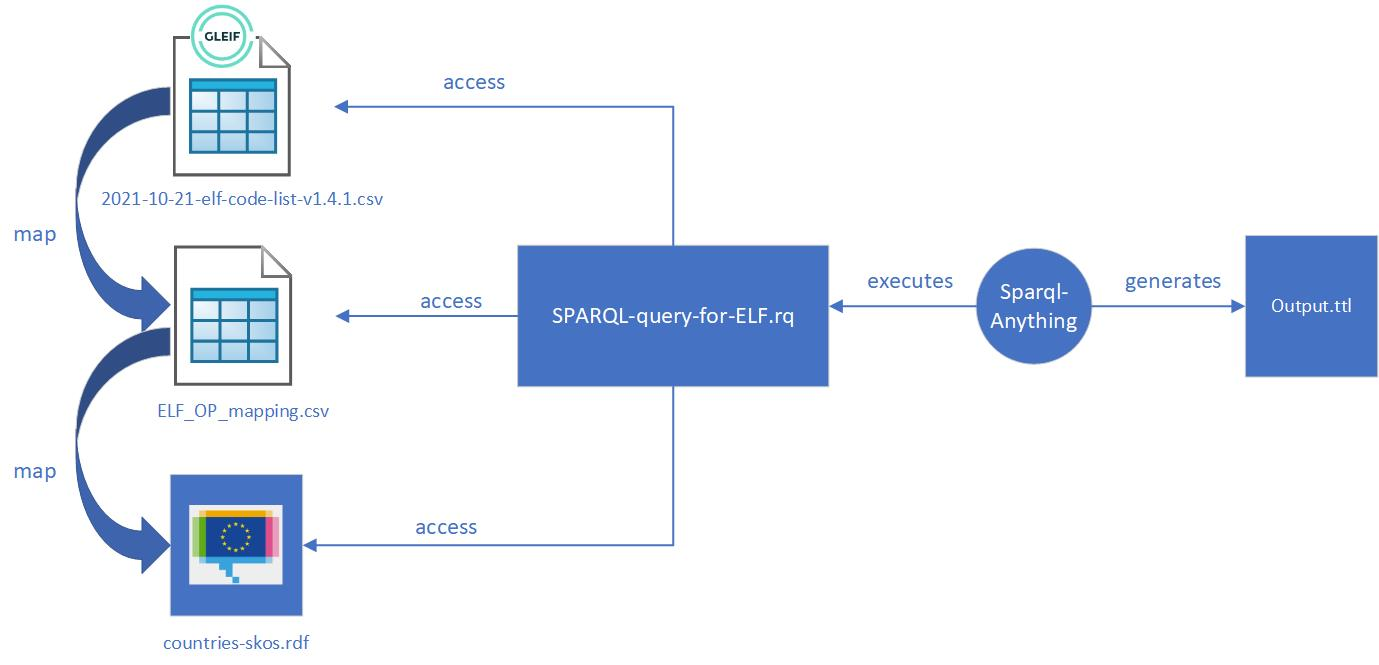
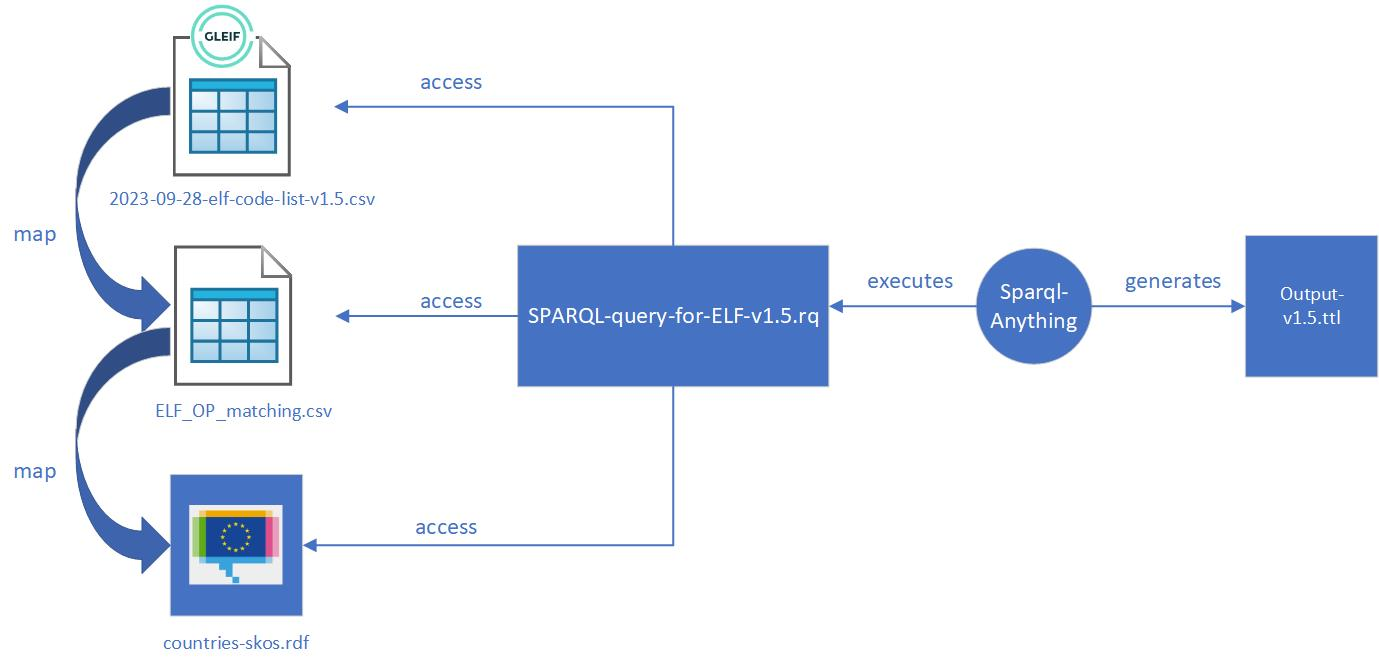
reviewed the documentation

diff --git a/Entity_Legal_Form/README.md b/Entity_Legal_Form/README.md
@@ -4,10 +4,11 @@
 This folder includes the material used to generate the Entity Legal Forms in RDF to be published by the Publications Office for the [legal form of a Legal Entity](https://semiceu.github.io/Core-Business-Vocabulary/releases/2.1.0/#LegalEntity%3AlegalFormType)  .
 
 The folder mainly includes:
-1. The file [2021-10-21-elf-code-list-v1.4.1.csv](2021-10-21-elf-code-list-v1.4.1.csv) downloaded from [GLEIF Entity Legal Forms](https://www.gleif.org/en/about-lei/code-lists/iso-20275-entity-legal-forms-code-list)
+1. The file [2023-09-28-elf-code-list-v1.5.csv](2023-09-28-elf-code-list-v1.5.csv) downloaded from [GLEIF Entity Legal Forms](https://www.gleif.org/en/about-lei/code-lists/iso-20275-entity-legal-forms-code-list)
 2. The file [countries-skos.rdf](countries-skos.rdf) downloaded from [Publications Office Country Authority Table](https://op.europa.eu/en/web/eu-vocabularies/dataset/-/resource?uri=http://publications.europa.eu/resource/dataset/country)
-3. The file [ELF_OP_mapping.csv](ELF_OP_mapping.csv) to map the countries in GLEIF to those in Publications Office
-4. The file [SPARQL-query-for-ELF.rq](SPARQL-query-for-ELF.rq) created to generate the Entity Legal Forms in RDF
+3. The file [ELF_OP_matching.csv](ELF_OP_mapping.csv) to map the countries in GLEIF to those in Publications Office
+4. The file [SPARQL-query-for-ELF-v1.5.rq](SPARQL-query-for-ELF-v1.5.rq) created to generate the Entity Legal Forms in RDF
+5. The file [output-v1.5.ttl](output-v1.5.ttl) generated as output containing the Entity Legal Forms in RDF
 
 
 ![](GLEIF.jpg)
@@ -31,30 +32,30 @@ Therefore the CSV is the preferred format for the transformation.
 The CSV file contains a list of legal forms:
 * that are not logical linked (no order/ranking)
 * that are not physically linked (no reference between each other)
-* that are grouped by the "ELF Code" column because of multiple translations, see for example the ELF Code for Belgium [1TX8](https://github.com/SEMICeu/Taxonomy/blob/master/Entity_Legal_Form/2021-10-21-elf-code-list-v1.4.1.csv#L99-L101) in Dutch, French and German
+* that are grouped by the "ELF Code" column because of multiple translations, see for example the ELF Code for Belgium [1TX8](https://github.com/SEMICeu/Taxonomy/blob/master/Entity_Legal_Form/2023-09-28-elf-code-list-v1.5.csv#L115-L117) in Dutch, French and German
 
 In addition, the legal forms:
 * depend on a country (Column "Country of formation") which name might be different from the countries in the Publication Office
 * have a status (Column "ELF Status ACTV/INAC") active or inactive
 * might have, for each single language:
-  *  a transliteration in Latin, see for example the ELF Code for Greece [R3HO](https://github.com/SEMICeu/Taxonomy/blob/master/Entity_Legal_Form/2021-10-21-elf-code-list-v1.4.1.csv#L1388) 
-  *  multiple abbrevations, see for example the ELF Code for Belgium [Y1Q4](https://github.com/SEMICeu/Taxonomy/blob/master/Entity_Legal_Form/2021-10-21-elf-code-list-v1.4.1.csv#L234), where they are concatenated via the ";" delimiter such as "PRIV ST.;PS"
+  *  a transliteration in Latin, see for example the ELF Code for Greece [R3HO](https://github.com/SEMICeu/Taxonomy/blob/master/Entity_Legal_Form/2023-09-28-elf-code-list-v1.5.csv#L1413) 
+  *  multiple abbrevations, see for example the ELF Code for Belgium [Y1Q4](https://github.com/SEMICeu/Taxonomy/blob/master/Entity_Legal_Form/2023-09-28-elf-code-list-v1.5.csv#L250), where they are concatenated via the ";" delimiter such as "PRIV ST.;PS"
 
 ### Transformation
 
 The transformation has been performed via the tool [SPARQL-Anything](https://github.com/SPARQL-Anything/sparql.anything), which:
 * does not need to change the structure of the GLEIF CSV file, provided as input for the transformation
-* allows to perform just a SPARQL CONSTRUCT query, see [line 10](https://github.com/SEMICeu/Taxonomy/blob/master/Entity_Legal_Form/SPARQL-query-for-ELF.rq#L10), and can leverage SPARQL functions such as STRLANG to combine a string with a language tag, see [line 54](https://github.com/SEMICeu/Taxonomy/blob/master/Entity_Legal_Form/SPARQL-query-for-ELF.rq#L54)
+* allows to perform just a SPARQL CONSTRUCT query, see [line 10](https://github.com/SEMICeu/Taxonomy/blob/master/Entity_Legal_Form/SPARQL-query-for-ELF-v1.5.rq#L10), and can leverage SPARQL functions such as STRLANG to combine a string with a language tag, see [line 54](https://github.com/SEMICeu/Taxonomy/blob/master/Entity_Legal_Form/SPARQL-query-for-ELF-v1.5.rq#L54)
 * allows to query multiple files in different format via the SERVICE directive:
-  * the GLEIF ELF Code list in CSV format, see [line 34](https://github.com/SEMICeu/Taxonomy/blob/master/Entity_Legal_Form/SPARQL-query-for-ELF.rq#L34)
-  * the ELF OP mapping in CSV format, see [line 66](https://github.com/SEMICeu/Taxonomy/blob/master/Entity_Legal_Form/SPARQL-query-for-ELF.rq#L66)
-  * the Publications Office Country Authority Table in RDF format, see [line 71](https://github.com/SEMICeu/Taxonomy/blob/master/Entity_Legal_Form/SPARQL-query-for-ELF.rq#L71) 
-* can leverage the [string split function](https://jena.apache.org/documentation/query/library-propfunc.html) from the underlying Jena Fuseki, to split a string using a delimiter, see [line 84]( https://github.com/SEMICeu/Taxonomy/blob/master/Entity_Legal_Form/SPARQL-query-for-ELF.rq#L84)
+  * the GLEIF ELF Code list in CSV format, see [line 34](https://github.com/SEMICeu/Taxonomy/blob/master/Entity_Legal_Form/SPARQL-query-for-ELF-v1.5.rq#L34)
+  * the ELF OP matching in CSV format, see [line 66](https://github.com/SEMICeu/Taxonomy/blob/master/Entity_Legal_Form/SPARQL-query-for-ELF-v1.5.rq#L66)
+  * the Publications Office Country Authority Table in RDF format, see [line 71](https://github.com/SEMICeu/Taxonomy/blob/master/Entity_Legal_Form/SPARQL-query-for-ELF-v1.5.rq#L71) 
+* can leverage the [string split function](https://jena.apache.org/documentation/query/library-propfunc.html) from the underlying Jena Fuseki, to split a string using a delimiter, see [line 84]( https://github.com/SEMICeu/Taxonomy/blob/master/Entity_Legal_Form/SPARQL-query-for-ELF-v1.5.rq#L84)
 
 The SPARQL query:
-* filters only the legal forms in ACTIVE status, see [line 47](https://github.com/SEMICeu/Taxonomy/blob/master/Entity_Legal_Form/SPARQL-query-for-ELF.rq#L47)
-* adds the transliteration to Latin only for certain languages like Bulgarian or Greek, see [line 57](https://github.com/SEMICeu/Taxonomy/blob/master/Entity_Legal_Form/SPARQL-query-for-ELF.rq#L57)
-* make sure to have the same countries present in the Publications Office Country Authority Table by using the mapping retrieved in [lines 66-69](https://github.com/SEMICeu/Taxonomy/blob/master/Entity_Legal_Form/SPARQL-query-for-ELF.rq#L66-L69) with the filter in [lines 96-97](https://github.com/SEMICeu/Taxonomy/blob/master/Entity_Legal_Form/SPARQL-query-for-ELF.rq#L96-L97)
+* filters only the legal forms in ACTIVE status, see [line 47](https://github.com/SEMICeu/Taxonomy/blob/master/Entity_Legal_Form/SPARQL-query-for-ELF-v1.5.rq#L47)
+* adds the transliteration to Latin only for certain languages like Bulgarian (bg) or Greek (el), see [line 57](https://github.com/SEMICeu/Taxonomy/blob/master/Entity_Legal_Form/SPARQL-query-for-ELF-v1.5.rq#L57)
+* make sure to have the same countries present in the Publications Office Country Authority Table by using the matching retrieved in [lines 66-69](https://github.com/SEMICeu/Taxonomy/blob/master/Entity_Legal_Form/SPARQL-query-for-ELF-v1.5.rq#L66-L69) with the filter in [lines 96-97](https://github.com/SEMICeu/Taxonomy/blob/master/Entity_Legal_Form/SPARQL-query-for-ELF-v1.5.rq#L96-L97)
 
 The [server version of SPARQL-Anything](https://github.com/SPARQL-Anything/sparql.anything#using-the-server) has been downloaded directly in this folder so it can access to the GLEIF ELF Code list and to the Publications Office Country Authority Table and, via a web interface (pointing the browser to http://localhost:3000/sparql), it helps to type in the SPARQL query and to execute it. 
 
@@ -62,7 +63,7 @@ Due to it's size (200 MB), SPARQL-Anything was not included in this repository, 
 
 ### Validation
 
-The output of the transformation is a RDF file containing skos:ConceptScheme pointing to all skos:Concept generated.
+The output of the transformation is a RDF file [output-v1.5.ttl](output-v1.5.ttl) containing skos:ConceptScheme pointing to all skos:Concept generated.
 
 The RDF file is validated manually against:
 
